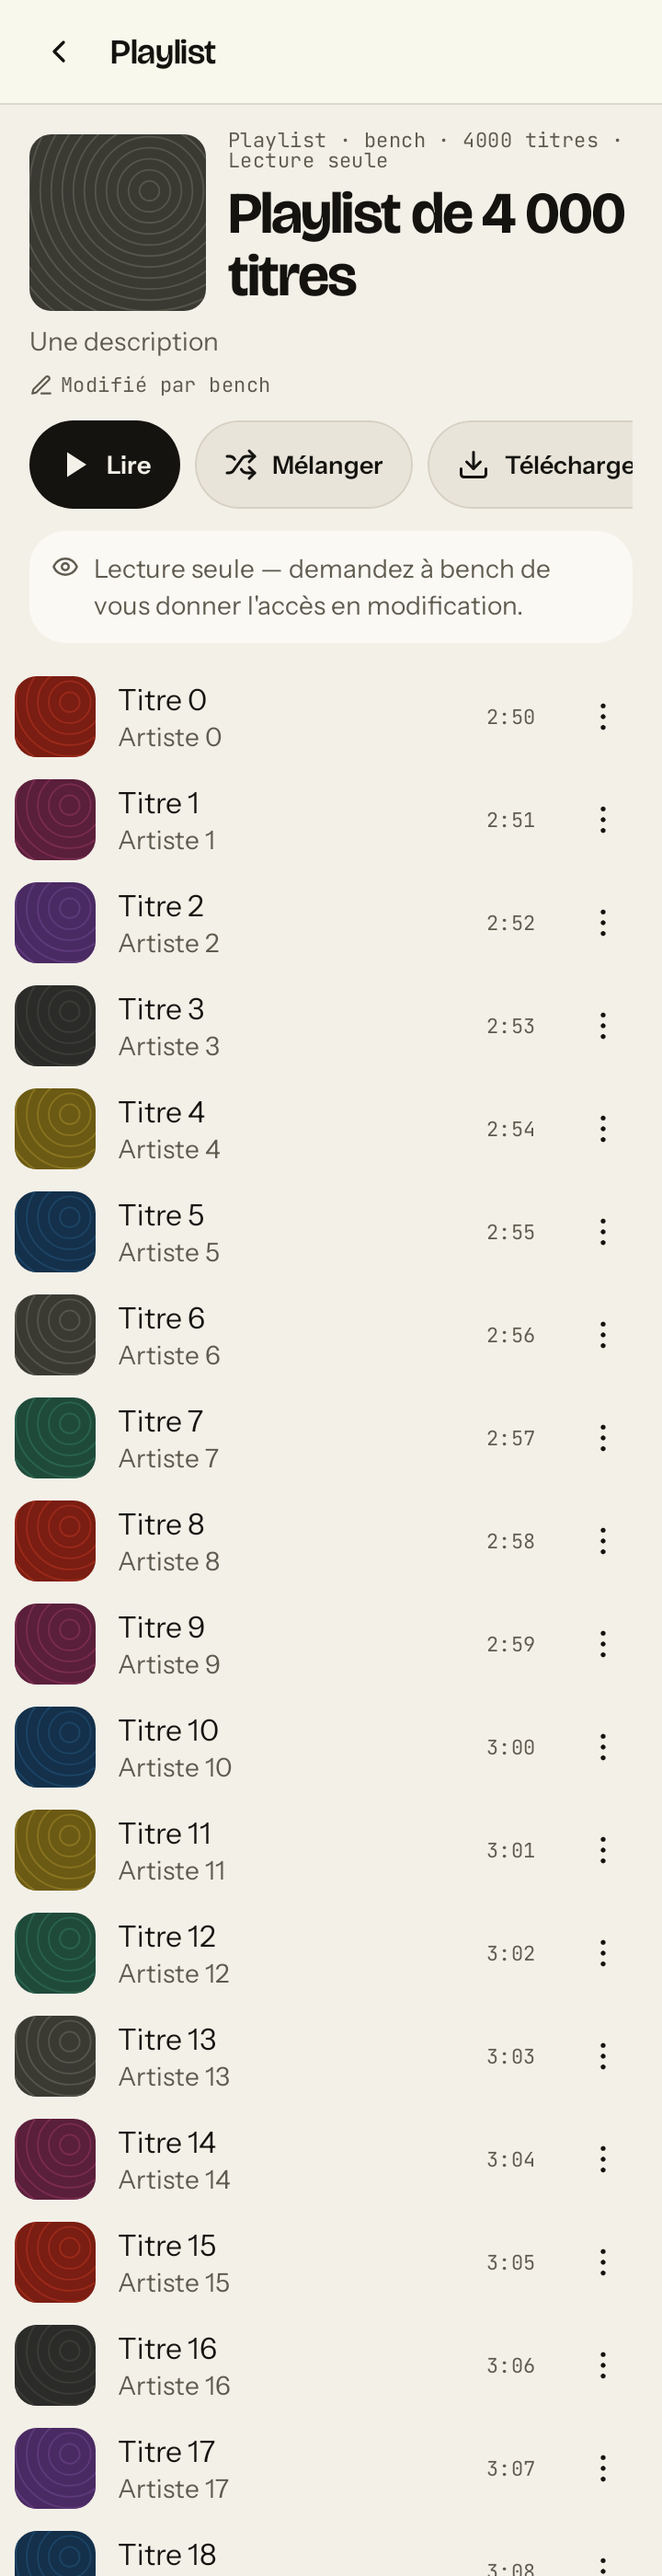
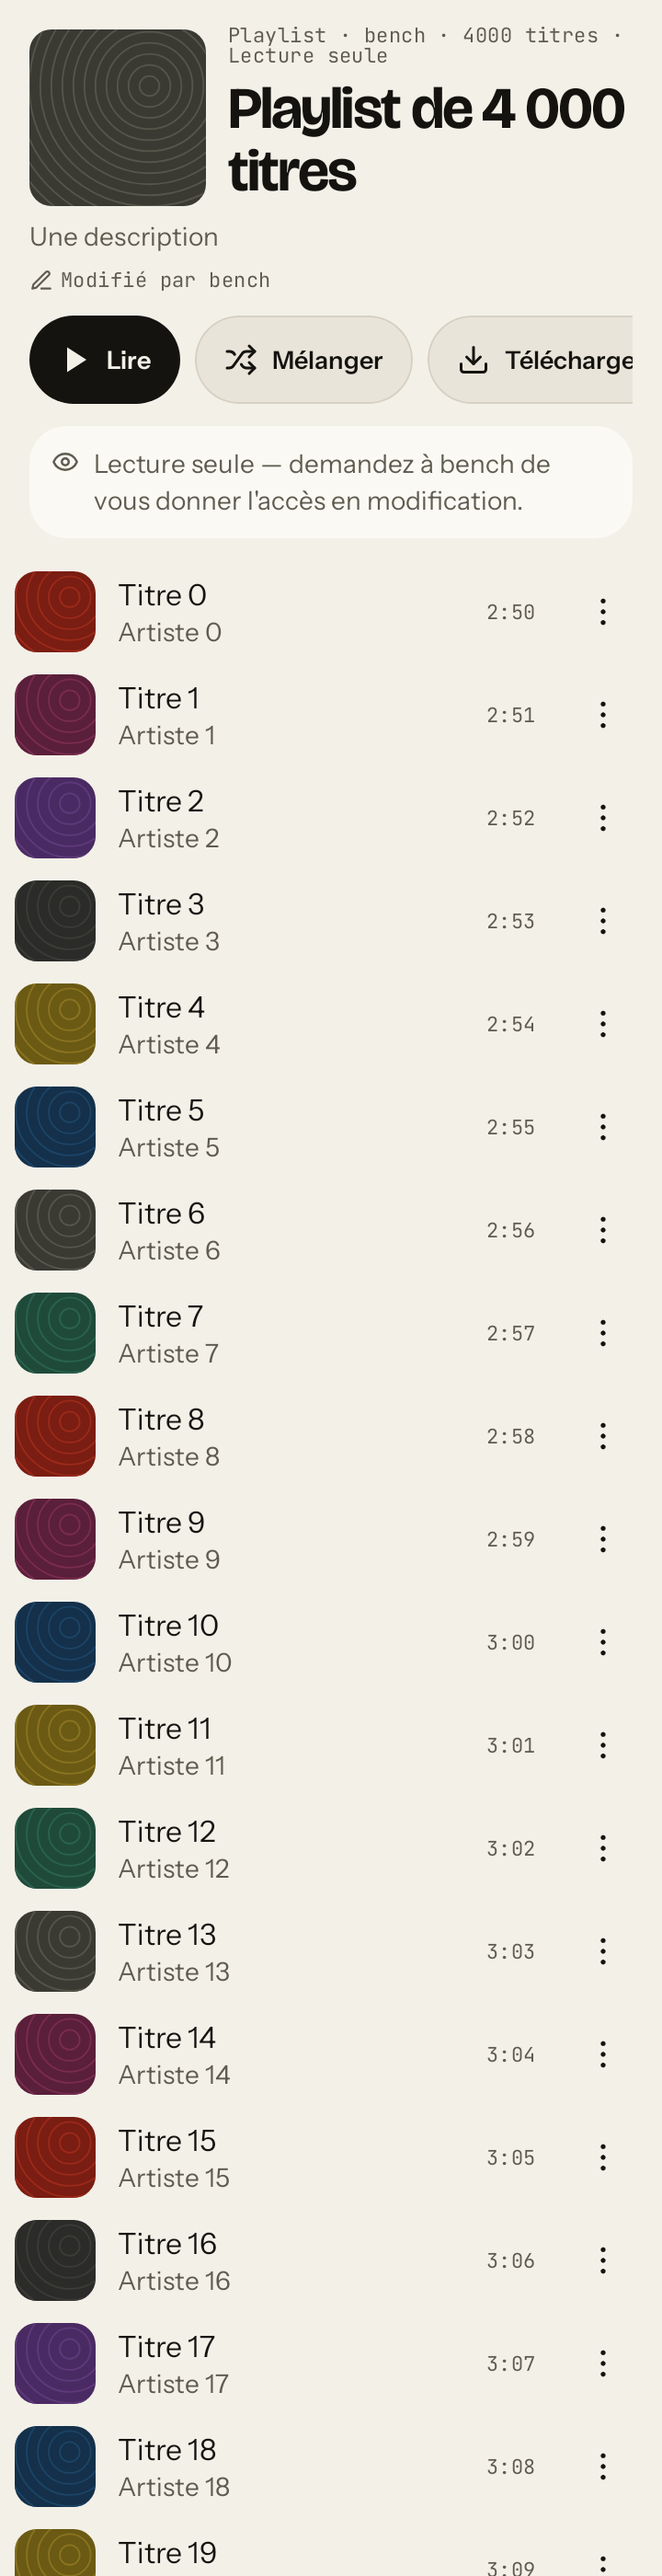
feat(mobile): MB9 the screen draws no second bar, its row grows, and the emulator capture
- The shell owns the phone's top bar (app/NavGraph.kt): the three screens
  drop theirs (two bars were visible on the device capture).
- The list's row is this module's own (heightIn): TrackRowView's fixed 56 dp
  cut the artist line at the 200 % font scale.
- docs/agents/mobile.md: the emulator capture, the scroll measure (201 frames,
  p95 31 ms on swiftshader), and the cold-start app-link crash in :app.

diff --git a/mobile/android/feature/playlist/src/main/java/fr/neezer/mobile/feature/playlist/PlaylistScreen.kt b/mobile/android/feature/playlist/src/main/java/fr/neezer/mobile/feature/playlist/PlaylistScreen.kt
@@ -60,7 +60,6 @@ import fr.neezer.mobile.designsystem.NzIconButton
 import fr.neezer.mobile.designsystem.NzMinTouchTarget
 import fr.neezer.mobile.designsystem.NzRadius
 import fr.neezer.mobile.designsystem.NzSpacing
-import fr.neezer.mobile.designsystem.NzTopBar
 import fr.neezer.mobile.designsystem.Sillon
 import fr.neezer.mobile.designsystem.nzDuration
 import fr.neezer.mobile.designsystem.rememberListWindow
@@ -91,22 +90,11 @@ fun PlaylistScreen(
 ) {
     val colors = Sillon.colors
     Column(modifier = modifier.fillMaxSize()) {
-        NzTopBar(
-            // The band below carries the playlist's own title; the bar names the
-            // SCREEN (the SPA has no second heading, and a 200 % font scale made
-            // the long title wrap under the bar's own line).
-            title = "Playlist",
-            onBack = actions.back,
-            actions = {
-                if (state.canManage) {
-                    NzIconButton(
-                        glyph = NzGlyph.More,
-                        contentDescription = "Plus d'actions : exporter, collaborateurs, renommer, supprimer",
-                        onClick = actions.openMore,
-                    )
-                }
-            },
-        )
+        // No top bar here: the SHELL draws the phone's (`app/NavGraph.kt`'s
+        // Scaffold) and a second one showed two bars on the device — measured on
+        // the emulator capture (`mb9-emulateur-360dp.png` before the fix). The
+        // band below carries the playlist's title; the route's name is the
+        // shell's. Back is the system's, as every other screen.
         when {
             state.page == null && state.failure != null -> LoadFailed(
                 cause = state.failure,

diff --git a/mobile/android/feature/playlist/src/main/java/fr/neezer/mobile/feature/playlist/ImportScreen.kt b/mobile/android/feature/playlist/src/main/java/fr/neezer/mobile/feature/playlist/ImportScreen.kt
@@ -39,7 +39,6 @@ import fr.neezer.mobile.designsystem.NzButtonKind
 import fr.neezer.mobile.designsystem.NzChip
 import fr.neezer.mobile.designsystem.NzGlyph
 import fr.neezer.mobile.designsystem.NzSpacing
-import fr.neezer.mobile.designsystem.NzTopBar
 import fr.neezer.mobile.designsystem.Sillon
 import fr.neezer.mobile.designsystem.nzDuration
 import kotlinx.coroutines.CoroutineDispatcher
@@ -94,8 +93,8 @@ fun ImportEntry(url: String?, nav: NzNavigator, modifier: Modifier = Modifier) {
     LaunchedEffect(model, url) { model.start(url) }
     val state by model.state.collectAsState()
 
+    // The shell's own top bar names the route; a second one would double it.
     Column(modifier = modifier.fillMaxSize()) {
-        NzTopBar(title = "Importer", onBack = nav::back)
         when {
             state.failure != null && state.job == null -> LoadFailed(
                 cause = state.failure.orEmpty(),

diff --git a/mobile/android/feature/playlist/src/main/java/fr/neezer/mobile/feature/playlist/SharedPlaylistScreen.kt b/mobile/android/feature/playlist/src/main/java/fr/neezer/mobile/feature/playlist/SharedPlaylistScreen.kt
@@ -39,7 +39,6 @@ import fr.neezer.mobile.designsystem.LoadFailed
 import fr.neezer.mobile.designsystem.NzGlyph
 import fr.neezer.mobile.designsystem.NzRadius
 import fr.neezer.mobile.designsystem.NzSpacing
-import fr.neezer.mobile.designsystem.NzTopBar
 import fr.neezer.mobile.designsystem.Sillon
 import fr.neezer.mobile.designsystem.nzDuration
 import kotlinx.coroutines.CoroutineDispatcher
@@ -107,8 +106,8 @@ fun SharedPlaylistScreen(
     modifier: Modifier = Modifier,
 ) {
     val colors = Sillon.colors
+    // The shell's own top bar names the route; a second one would double it.
     Column(modifier = modifier.fillMaxSize()) {
-        NzTopBar(title = state.data?.header?.title ?: "Playlist partagée", onBack = onBack)
         when {
             state.failure != null -> LoadFailed(
                 cause = state.failure,

diff --git a/docs/agents/mobile.md b/docs/agents/mobile.md
@@ -2890,7 +2890,16 @@ panel, public page) plus the import job.
   failed, the public page).
 - **Look**: `docs/agents/screenshots/mobile/MB9/` — the band, the action line on one scrolling row,
   the windowed list, the suggestions, the edit rows with their grips and arrows, and the
-  read-only band, in both themes at both widths.
+  read-only band, in both themes at both widths — plus **one headless-emulator capture of the real
+  screen** (`mb9-emulateur-360dp.png`: the bench's own 4 000-title playlist, opened by
+  `neezer://playlist/<id>` against `perf_api.py` at `10.0.2.2:5690`).
+- **Smoothness, on the emulator** (`dumpsys gfxinfo org.nsupysonic.app`, 12 scripted swipes over
+  the 4 000-row list): **201 frames, 3 janky (1.49 %)**, p50 **23 ms**, p90 **29 ms**, p95
+  **31 ms**, p99 44 ms (GPU p50 19 ms on swiftshader). These are the SOFTWARE-GPU floor MQ1
+  recorded for this machine — the static shell read p95 19.4 ms and MB1's themed UI p95 50.6 ms —
+  so the lot's number to hold is **31 ms p95, below the shell's own 50.6 ms**, and the real-phone
+  p95 ≤ 16.7 ms stays MQ2's (a phone, not swiftshader). What the capture also shows is that the
+  screen composes **5 rows** of 4 000: the list is windowed, not copied.
 
 **Rules a measurement taught**:
 
@@ -2910,6 +2919,15 @@ panel, public page) plus the import job.
   version of the write path asked the network inside the same call that moved the row, so a tap
   left the list unchanged for one round trip. Splitting every mutation into an in-memory half and a
   network half is what made « a drag answers in the frame » true for removals and appends too.
+- **The shell draws the phone's top bar, so a screen must not.** The first device capture had TWO
+  bars — the shell's (« Playlist · Réglages », `app/NavGraph.kt`'s Scaffold) over this screen's own
+  (`‹ Playlist ⋯`). The screens here draw none: the band carries the title, the route's name is the
+  shell's, back is the system's. The Robolectric captures cannot show it (they draw the screen
+  alone), which is exactly why the emulator capture is in the acceptance.
+- **A cold-start app link crashes the SHELL** (`AppGraph.attach` → `openLink` → `getGraph()` before
+  `setGraph()`, `IllegalStateException` on `am start -a VIEW -d neezer://playlist/<id>` from a
+  stopped process). Worked around for the capture by launching the app first and sending the link
+  warm; **the fix belongs to `:app`** (MB0/MB2's file) and is reported, not patched here.
 
 **Not ported, on purpose** (each named where it is drawn):
 
